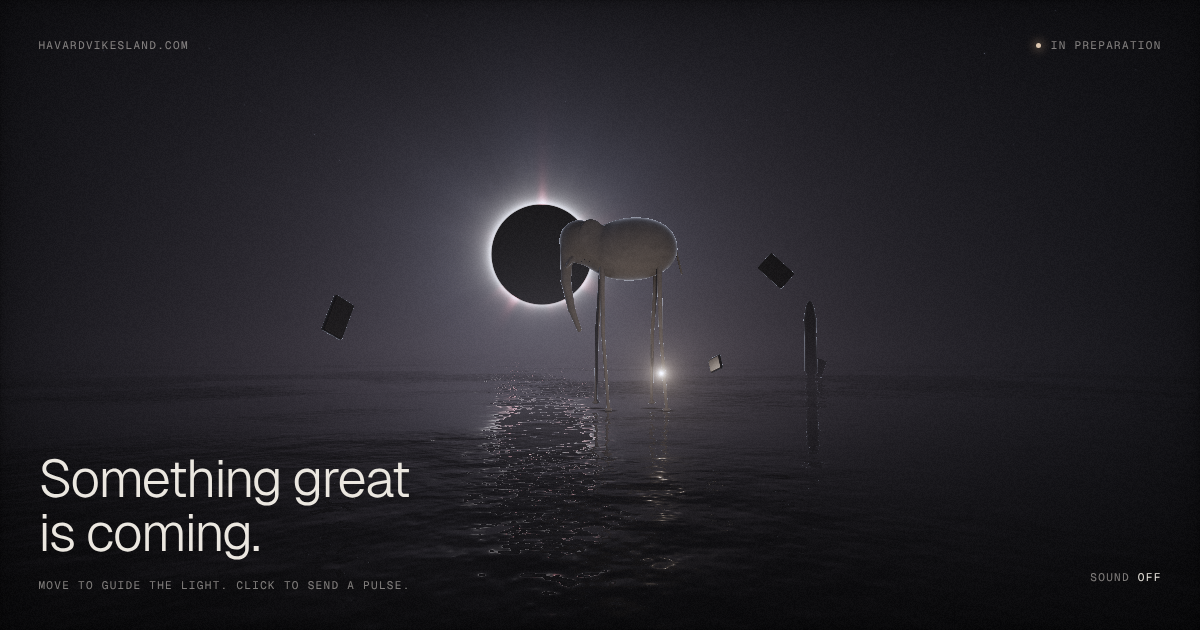
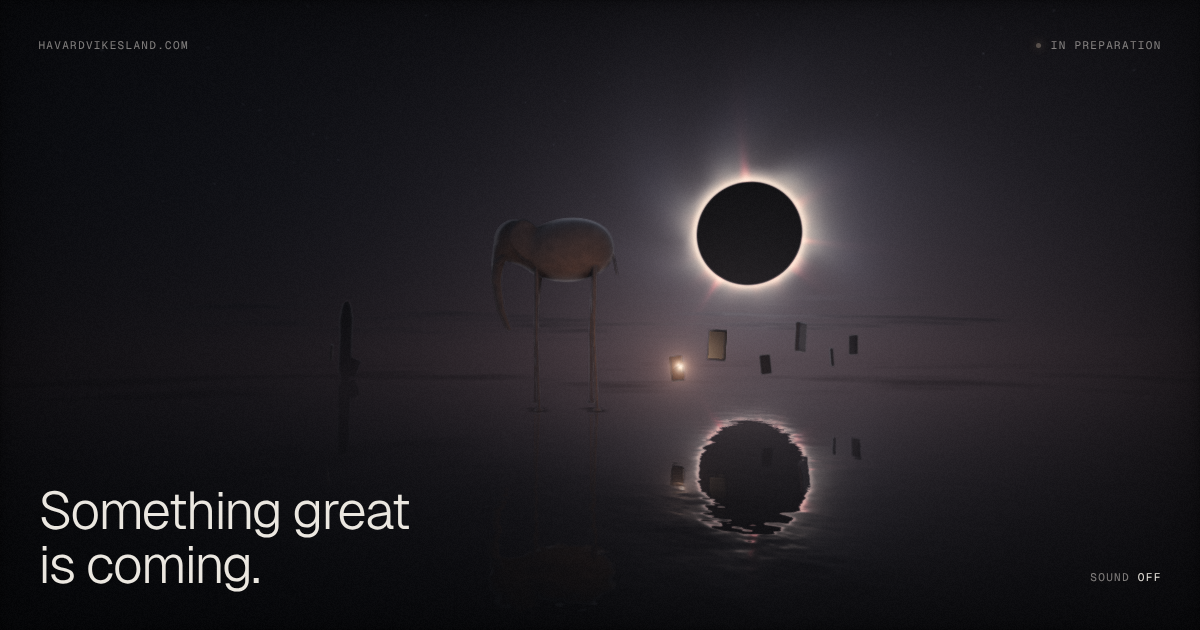
Recompose the scene; fixed camera; ripples only from clicks on water
- Eclipse alone in clean sky on the upper-right third (centred and higher
  on portrait); clouds reduced to a thin horizon mist below it.
- Elephant paces a lane left of the eclipse, above the headline, turning
  slowly at each end with its head swinging toward the viewer.
- Seven upright slabs (was twelve, random) in a receding procession low
  over the water; an upright-seeking torque restores order after a
  disturbance.
- Rocket moved to the far-left horizon to balance the eclipse.
- Camera no longer drifts with the pointer.
- A click on the sky sends its shockwave through the air only: no drop,
  ring or ripples on the water.
- New social preview image.

Claude-Session: https://claude.ai/code/session_014tw2Te8BpsaBHUzwRGrP9G

Changed region(s): [[0.1542, 0.1206, 0.8017, 0.8746], [0.0308, 0.7238, 0.3392, 0.9349]]

diff --git a/public/main.js b/public/main.js
@@ -159,6 +159,7 @@ uniform vec3  uOrb;
 uniform float uOrbI;
 uniform vec4  uEle;      // x, gait phase, head yaw, head pitch
 uniform float uEleZ;
+uniform float uEleTurn;  // elephant heading (0: facing -x, pi: facing +x)
 uniform float uTrunk;    // 0 hanging .. 1 raised
 uniform vec3  uRocket;   // x, lift, z
 uniform float uFire;
@@ -168,7 +169,7 @@ uniform float uFlare;    // brief brightening on any click
 uniform float uStartle;  // elephant flinch
 uniform int   uFrame;
 
-#define NSTONE 12
+#define NSTONE 7
 uniform vec4  uStone[NSTONE];   // centre xyz, bounding radius
 uniform vec3  uStoneB[NSTONE];  // half extents
 uniform mat3  uStoneR[NSTONE];  // world -> local rotation
@@ -299,7 +300,9 @@ vec2 sdStones(vec3 p) {
 }
 
 vec2 mapObj(vec3 p) {
-  vec2 res = vec2(sdElephant(p - vec3(uEle.x, 0.0, uEleZ)), 1.0);
+  vec3 pe = p - vec3(uEle.x, 0.0, uEleZ);
+  pe.xz = rot(uEleTurn) * pe.xz;
+  vec2 res = vec2(sdElephant(pe), 1.0);
   float r = sdRocket(p - vec3(uRocket.x, uRocket.y, uRocket.z));
   if (r < res.x) res = vec2(r, 2.0);
   vec2 st = sdStones(p);
@@ -479,7 +482,7 @@ vec3 sky(vec3 rd) {
   if (rd.y > 0.0) {
     vec2 cp = rd.xz / (rd.y + 0.06) * vec2(0.35, 1.1) + vec2(uTime * 0.012, 0.0);
     float dens = fbm(cp * 1.6 + vec2(0.0, uTime * 0.004));
-    dens = smoothstep(0.52, 0.8, dens) * smoothstep(0.02, 0.08, rd.y) * (1.0 - smoothstep(0.22, 0.45, rd.y));
+    dens = smoothstep(0.5, 0.8, dens) * smoothstep(0.012, 0.035, rd.y) * (1.0 - smoothstep(0.06, 0.1, rd.y));   // a thin band of mist on the horizon, below the eclipse
     // lit by the corona ring, not the dark disk: clouds over the disk stay dark
     float xr = max(x, 0.0) / 0.05;
     float lit = 0.22 / (1.0 + xr * xr) * smoothstep(-0.025, 0.006, x) + 0.025 / (1.0 + a / 0.3);
@@ -695,7 +698,7 @@ function finishProgram() {
   }
   gl.useProgram(prog);
   gl.bindVertexArray(gl.createVertexArray());
-  for (const name of ['uRes', 'uTime', 'uCam', 'uTarget', 'uFocal', 'uOrb', 'uOrbI', 'uEle', 'uEleZ', 'uTrunk', 'uRocket', 'uFire', 'uSun', 'uFade', 'uFlare', 'uStartle', 'uFrame', 'uStone', 'uStoneB', 'uStoneR', 'uWater', 'uWaterRect', 'uWaterOn', 'uMetA', 'uMetB', 'uJitter', 'uPost', 'uOrbCol', 'uShock']) {
+  for (const name of ['uRes', 'uTime', 'uCam', 'uTarget', 'uFocal', 'uOrb', 'uOrbI', 'uEle', 'uEleZ', 'uEleTurn', 'uTrunk', 'uRocket', 'uFire', 'uSun', 'uFade', 'uFlare', 'uStartle', 'uFrame', 'uStone', 'uStoneB', 'uStoneR', 'uWater', 'uWaterRect', 'uWaterOn', 'uMetA', 'uMetB', 'uJitter', 'uPost', 'uOrbCol', 'uShock']) {
     U[name] = gl.getUniformLocation(prog, name);
   }
   return true;
@@ -753,6 +756,7 @@ function shockRings() {
   const a = new Float32Array(16);
   shocks.slice(0, 4).forEach((sh, i) => {
     const r = sh.age * SHOCK_SPEED;
+    if (!sh.water) return;   // a shock through the air leaves the water alone
     a.set([(sh.o[0] - WATER.minX) / WATER.size, (sh.o[2] - WATER.minZ) / WATER.size, r / WATER.size, -0.012 * sh.str * Math.exp(-sh.age * 0.5)], i * 4);
   });
   return a;
@@ -761,6 +765,7 @@ function shockUniforms() {
   const a = new Float32Array(16);
   shocks.slice(0, 4).forEach((sh, i) => {
     const r = sh.age * SHOCK_SPEED;
+    if (!sh.water) return;
     a.set([sh.o[0], sh.o[2], r, sh.str * Math.exp(-sh.age * 0.45) / (1 + r * 0.08) * Math.min(1, sh.age * 8)], i * 4);
   });
   return a;
@@ -1069,8 +1074,8 @@ const state = {
   orb: [0, 1.8, -8],
   orbI: 0,
   orbCol: [1, 0.8, 0.6],
-  ele: { x: 1, phase: 0, yaw: 0, pitch: 0, trunk: 0, trunkT: 99, z: -12, startle: 0, snap: 0 },
-  rocket: { x: 14, z: -34, lift: 0, fire: 0, mode: 'idle', t: 0, cough: 0, shake: 0 },
+  ele: { x: -1, turn: 0, turnFrom: 0, turnTo: 0, turnT: -1, lane: [-4.8, 0.4], phase: 0, yaw: 0, pitch: 0, trunk: 0, trunkT: 99, z: -12, startle: 0, snap: 0 },
+  rocket: { x: -17, z: -34, lift: 0, fire: 0, mode: 'idle', t: 0, cough: 0, shake: 0 },
   flare: 0,
   meteor: { a: [0, 1, 0], b: [0, 1, 0], p: -1, next: 5 },
   sun: norm([-0.1, 0.165, -1]),
@@ -1088,26 +1093,24 @@ const minScale = 0.45;
 // Never shade more than this many pixels per frame, whatever the screen size.
 const pixelBudget = coarse ? 900000 : 1500000;
 
-// Floating slabs: simple rigid bodies drawn by the shader.
-const NSTONE = 12;
-const stones = (() => {
-  let seed = 7;
-  const rnd = () => { seed = (seed * 16807) % 2147483647; return (seed - 1) / 2147483646; };
-  const list = [];
-  for (let i = 0; i < NSTONE; i++) {
-    const s = 0.12 + rnd() * 0.34;
-    const b = [s * (0.55 + rnd() * 0.5), s * (0.8 + rnd() * 0.6), s * (0.08 + rnd() * 0.16)];
-    const home = [-9.5 + rnd() * 19, 1.0 + rnd() * 4.2, -14 + rnd() * 9];
-    const ax = norm([rnd() - 0.5, rnd() - 0.5, rnd() - 0.5]);
-    const ang = rnd() * Math.PI;
-    list.push({
-      b, r: Math.hypot(...b), home, p: home.slice(), v: [0, 0, 0],
-      q: [ax[0] * Math.sin(ang / 2), ax[1] * Math.sin(ang / 2), ax[2] * Math.sin(ang / 2), Math.cos(ang / 2)],
-      w: [(rnd() - 0.5) * 0.3, (rnd() - 0.5) * 0.3, (rnd() - 0.5) * 0.3], seed: rnd() * 10,
-    });
-  }
-  return list;
-})();
+// Floating slabs: upright monoliths hovering low over the water in a loose
+// procession, receding in size with distance. Homes are set per layout.
+const NSTONE = 7;
+const SLABS = {
+  // x, y, z, size
+  wide: [[-7.4, 1.7, -10.5, 0.22], [1.8, 1.25, -8.6, 0.3], [3.3, 1.9, -10.2, 0.4], [4.9, 1.35, -11.8, 0.27], [6.5, 2.2, -13.4, 0.46], [8.1, 1.55, -15.0, 0.3], [9.8, 2.0, -17.2, 0.36]],
+  tall: [[-3.2, 2.4, -14.0, 0.26], [0.9, 1.0, -6.5, 0.24], [1.9, 1.6, -8.4, 0.34], [2.8, 1.15, -10.4, 0.24], [3.7, 1.9, -12.6, 0.4], [4.6, 1.35, -14.8, 0.28], [5.6, 1.75, -17.4, 0.32]],
+};
+const stones = SLABS.wide.map(([x, y, z, s], i) => {
+  const b = [s * 0.58, s, s * 0.11];
+  const tilt = (i % 2 ? 1 : -1) * 0.05;
+  return {
+    b, r: Math.hypot(...b), home: [x, y, z], p: [x, y, z], v: [0, 0, 0],
+    q: [0, Math.sin(0.25 * i - 0.6) * Math.cos(tilt), Math.sin(tilt), Math.cos(0.25 * i - 0.6)],
+    w: [0, 0.03 * (i % 2 ? 1 : -1), 0], seed: i * 1.7,
+  };
+});
+stones.forEach((st) => { const l = Math.hypot(...st.q); st.q = st.q.map((c) => c / l); });
 const stoneBuf = { c: new Float32Array(NSTONE * 4), b: new Float32Array(NSTONE * 3), r: new Float32Array(NSTONE * 9) };
 
 function layout() {
@@ -1134,8 +1137,12 @@ function layout() {
   state.focal = tall ? 1.3 : 1.9;
   state.camBase = tall ? [0, 1.9, 7.5] : [0, 1.7, 6];
   state.target = tall ? [0, 3.1, -10] : [0, 2.7, -10];
-  state.sun = norm(tall ? [0.02, 0.2, -1] : [-0.1, 0.165, -1]);
-  state.rocket.x = tall ? 6 : 14;
+  // the eclipse alone in clean sky on the upper-right third (centred, higher, on phones)
+  state.sun = norm(tall ? [0.0, 0.34, -1] : [0.25, 0.2, -1]);
+  state.rocket.x = tall ? -9.5 : -17;   // far left on the horizon, balancing the eclipse
+  // the elephant paces a lane left of the eclipse, above the headline
+  state.ele.lane = tall ? [-1.8, 0.6] : [-4.8, 0.4];
+  (tall ? SLABS.tall : SLABS.wide).forEach(([x, y, z], i) => { stones[i].home = [x, y, z]; });
   state.ele.z = -12;
   const dist = state.camBase[2] - state.ele.z;
   state.halfW = (dist * aspect) / state.focal;
@@ -1231,15 +1238,14 @@ canvas.addEventListener('pointerdown', (e) => {
   // Every click: a drop in the water, a flare of the light and the corona,
   // and the slabs near the light are flung outward.
   const g = groundAt([pointer.x, pointer.y]);
-  const at = g || [state.orb[0], state.orb[2]];
-  addDrop(at[0], at[1], at[0], at[1], 0.45, -0.5);
+  if (g) addDrop(g[0], g[1], g[0], g[1], 0.45, -0.5);   // only a click on the water touches it
   drag.down = true;
   drag.last = g;
   state.orbI = Math.max(state.orbI, 2.6);
   state.flare = 1;
   audio.pulse();
   // the shockwave starts where you clicked: on the water, or under the light
-  shocks.push({ o: g ? [g[0], 0, g[1]] : [state.orb[0], state.orb[1], state.orb[2]], age: 0, str: 1, hit: new Set() });
+  shocks.push({ o: g ? [g[0], 0, g[1]] : [state.orb[0], state.orb[1], state.orb[2]], water: !!g, age: 0, str: 1, hit: new Set() });
   if (shocks.length > 4) shocks.shift();
 
   if (target === 'elephant') {
@@ -1271,12 +1277,8 @@ let frameNo = 0;
 const motion = reduceMotion ? 0.35 : 1;
 
 function update(dt, t, now) {
-  // camera drift
-  const px = pointer.active ? pointer.x : 0;
-  const py = pointer.active ? pointer.y : 0;
-  state.cam[0] += (state.camBase[0] + px * 0.35 - state.cam[0]) * damp(1.5, dt);
-  state.cam[1] += (state.camBase[1] + py * 0.15 - state.cam[1]) * damp(1.5, dt);
-  state.cam[2] = state.camBase[2];
+  // a fixed camera
+  state.cam = state.camBase.slice();
 
   // the light
   const idle = !pointer.active || now - pointer.last > 9;
@@ -1298,24 +1300,38 @@ function update(dt, t, now) {
   const hot = clamp(state.flare, 0, 1);
   state.orbCol = [1.0, 0.76 + 0.08 * hue + 0.1 * hot, 0.5 + 0.16 * hue + 0.2 * hot];
 
-  // the elephant walks left; feet stay planted (stride 0.64 per half cycle)
+  // the elephant paces its lane; at each end it turns slowly, head toward us
   const E = state.ele;
   const speed = 0.2;
-  E.x -= speed * dt;
+  const c = Math.cos(E.turn), sn = Math.sin(E.turn);
+  const toWorld = (lx, lz) => [E.x + c * lx + sn * lz, E.z - sn * lx + c * lz];
+  if (E.turnT >= 0) {
+    E.turnT += dt / 6;
+    const k2 = Math.min(1, E.turnT);
+    E.turn = E.turnFrom + (E.turnTo - E.turnFrom) * k2 * k2 * (3 - 2 * k2);
+    if (E.turnT >= 1) E.turnT = -1;
+  } else {
+    const heading = Math.cos(E.turn) > 0 ? -1 : 1;   // facing -x or +x
+    E.x += heading * speed * dt;
+    if ((heading < 0 && E.x < E.lane[0]) || (heading > 0 && E.x > E.lane[1])) {
+      E.turnFrom = E.turn;
+      E.turnTo = heading < 0 ? Math.PI : 0;
+      E.turnT = 0;
+    }
+  }
   const prevPhase = E.phase;
-  E.phase += (speed * Math.PI / 0.64) * dt;
+  E.phase += (speed * Math.PI / 0.64) * dt;   // keeps stepping while turning
   // footfalls ripple the water
   for (let i = 0; i < 4; i++) {
     const off = i === 0 || i === 3 ? 0 : Math.PI;
     if (Math.cos(prevPhase + off) < 0 && Math.cos(E.phase + off) >= 0) {
-      const fx = E.x + (i < 2 ? -0.82 : 0.88) + Math.sin(E.phase + off) * 0.32;
-      const fz = E.z + (i === 0 || i === 3 ? 0.38 : -0.38);
+      const [fx, fz] = toWorld((i < 2 ? -0.82 : 0.88) + Math.sin(E.phase + off) * 0.32, i === 0 || i === 3 ? 0.38 : -0.38);
       addDrop(fx, fz, fx, fz, 0.22, -0.12);
     }
   }
-  if (E.x < -state.halfW - 4) E.x = state.halfW + 4;
-  const head = [E.x - 1.55, 5.0, E.z];
-  const v = sub(state.orb, head);
+  const [hx, hz] = toWorld(-1.55, 0);
+  const v0 = sub(state.orb, [hx, 5.0, hz]);
+  const v = [c * v0[0] - sn * v0[2], v0[1], sn * v0[0] + c * v0[2]];   // into the elephant's own frame
   const yaw = clamp(Math.atan2(v[2], -v[0]), -0.85, 0.85);
   const pitch = clamp(Math.atan2(v[1], Math.hypot(v[0], v[2])), -0.45, 0.35);
   E.snap = Math.max(0, E.snap - dt);
@@ -1462,8 +1478,12 @@ function updateStones(dt, t) {
     }
     // tumble: spin picks up from motion, then settles
     const tq = cross([0, 1, 0], st.v);
-    const ad = Math.exp(-0.9 * dt);
-    for (let i = 0; i < 3; i++) st.w[i] = (st.w[i] + tq[i] * 0.5 * dt) * ad + (i === 1 ? 0.02 * dt : 0);
+    // and an upright-seeking torque brings order back after a disturbance
+    const [ux, uy, uz, uw] = st.q;
+    const up = [2 * (ux * uy - uz * uw), 1 - 2 * (ux * ux + uz * uz), 2 * (uy * uz + ux * uw)];
+    const right = cross(up, [0, 1, 0]);
+    const ad = Math.exp(-1.1 * dt);
+    for (let i = 0; i < 3; i++) st.w[i] = (st.w[i] + (tq[i] * 0.5 + right[i] * 2.2) * dt) * ad;
     const [qx, qy, qz, qw] = st.q;
     const [wx, wy, wz] = st.w;
     const nq = [
@@ -1535,6 +1555,7 @@ function frame(nowMs) {
   gl.uniform1f(U.uOrbI, state.orbI);
   gl.uniform4f(U.uEle, state.ele.x, state.ele.phase, state.ele.yaw, state.ele.pitch);
   gl.uniform1f(U.uEleZ, state.ele.z);
+  gl.uniform1f(U.uEleTurn, state.ele.turn);
   gl.uniform1f(U.uTrunk, state.ele.trunk);
   const R = state.rocket;
   const jitter = (Math.random() - 0.5) * 0.06 * R.shake;

diff --git a/README.md b/README.md
@@ -1,6 +1,6 @@
 # havardvikesland.com
 
-A "something great is coming" page: one raymarched scene (an eclipse on the horizon, a long-legged elephant walking across a wet salt flat, a rocket waiting in the distance) lit by a light that follows the cursor. There are no instructions on the page: what reacts, and how, is left to be discovered.
+A "something great is coming" page: one raymarched scene (an eclipse alone in the sky, a long-legged elephant pacing a wet salt flat, a procession of floating slabs, a rocket waiting on the far horizon) lit by a light that follows the cursor. There are no instructions on the page: what reacts, and how, is left to be discovered.
 
 Plain static files, no build step and no libraries:
 
